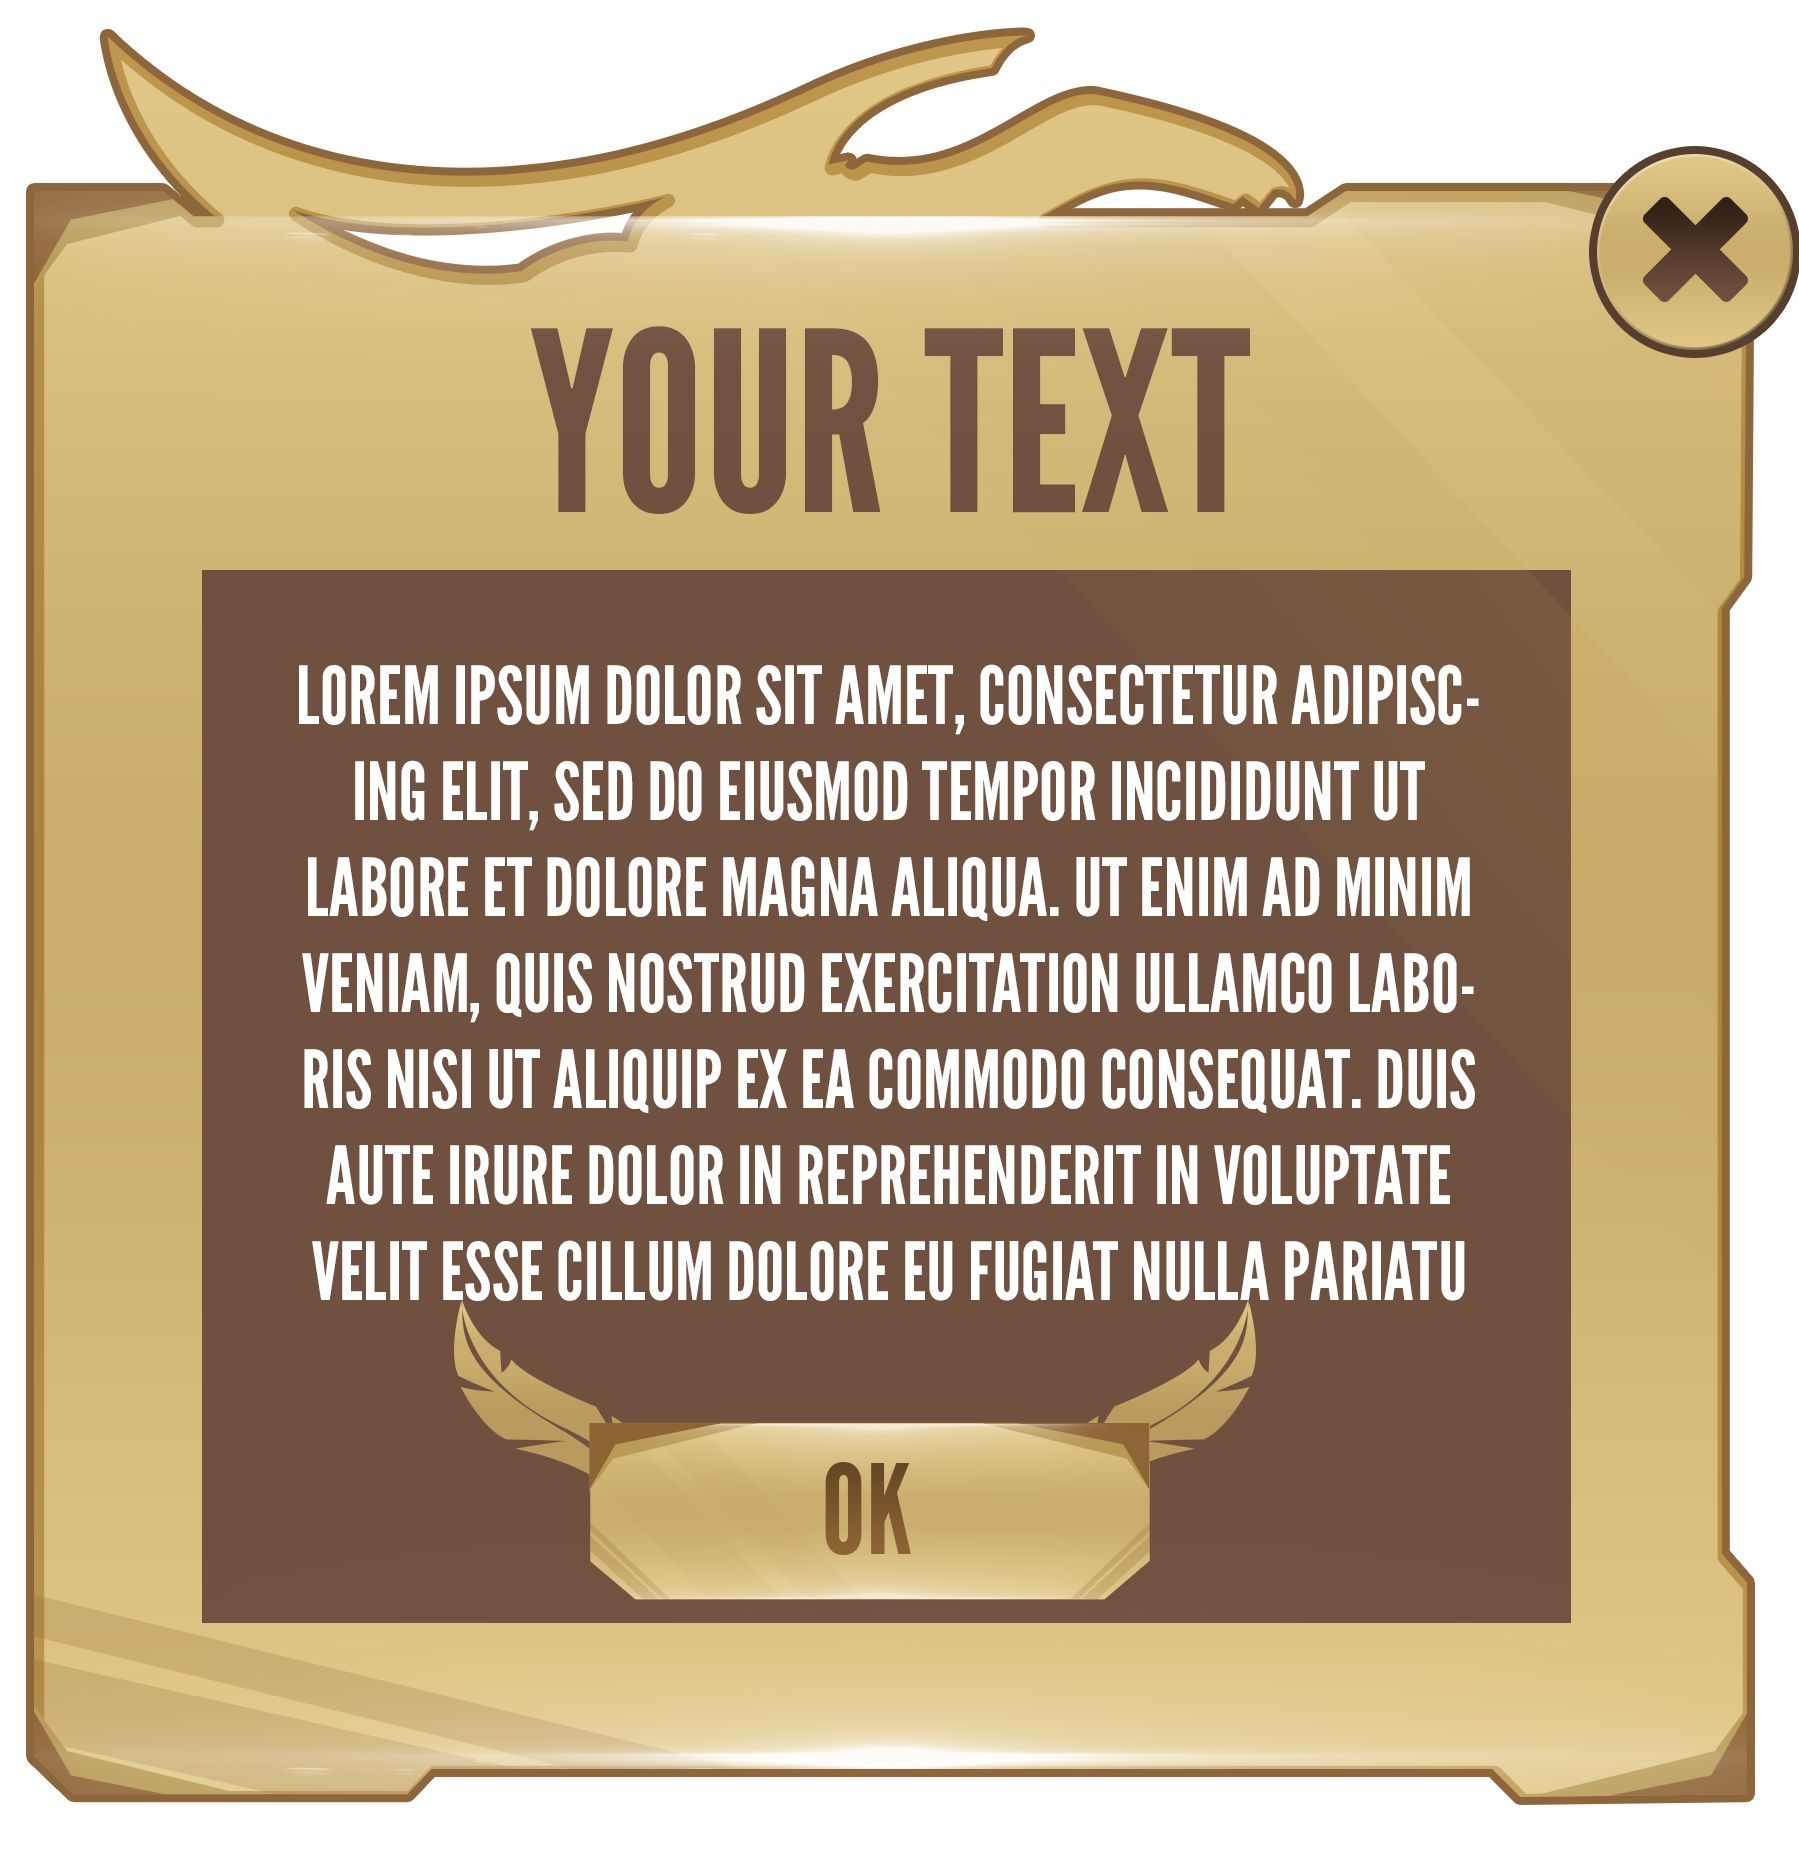
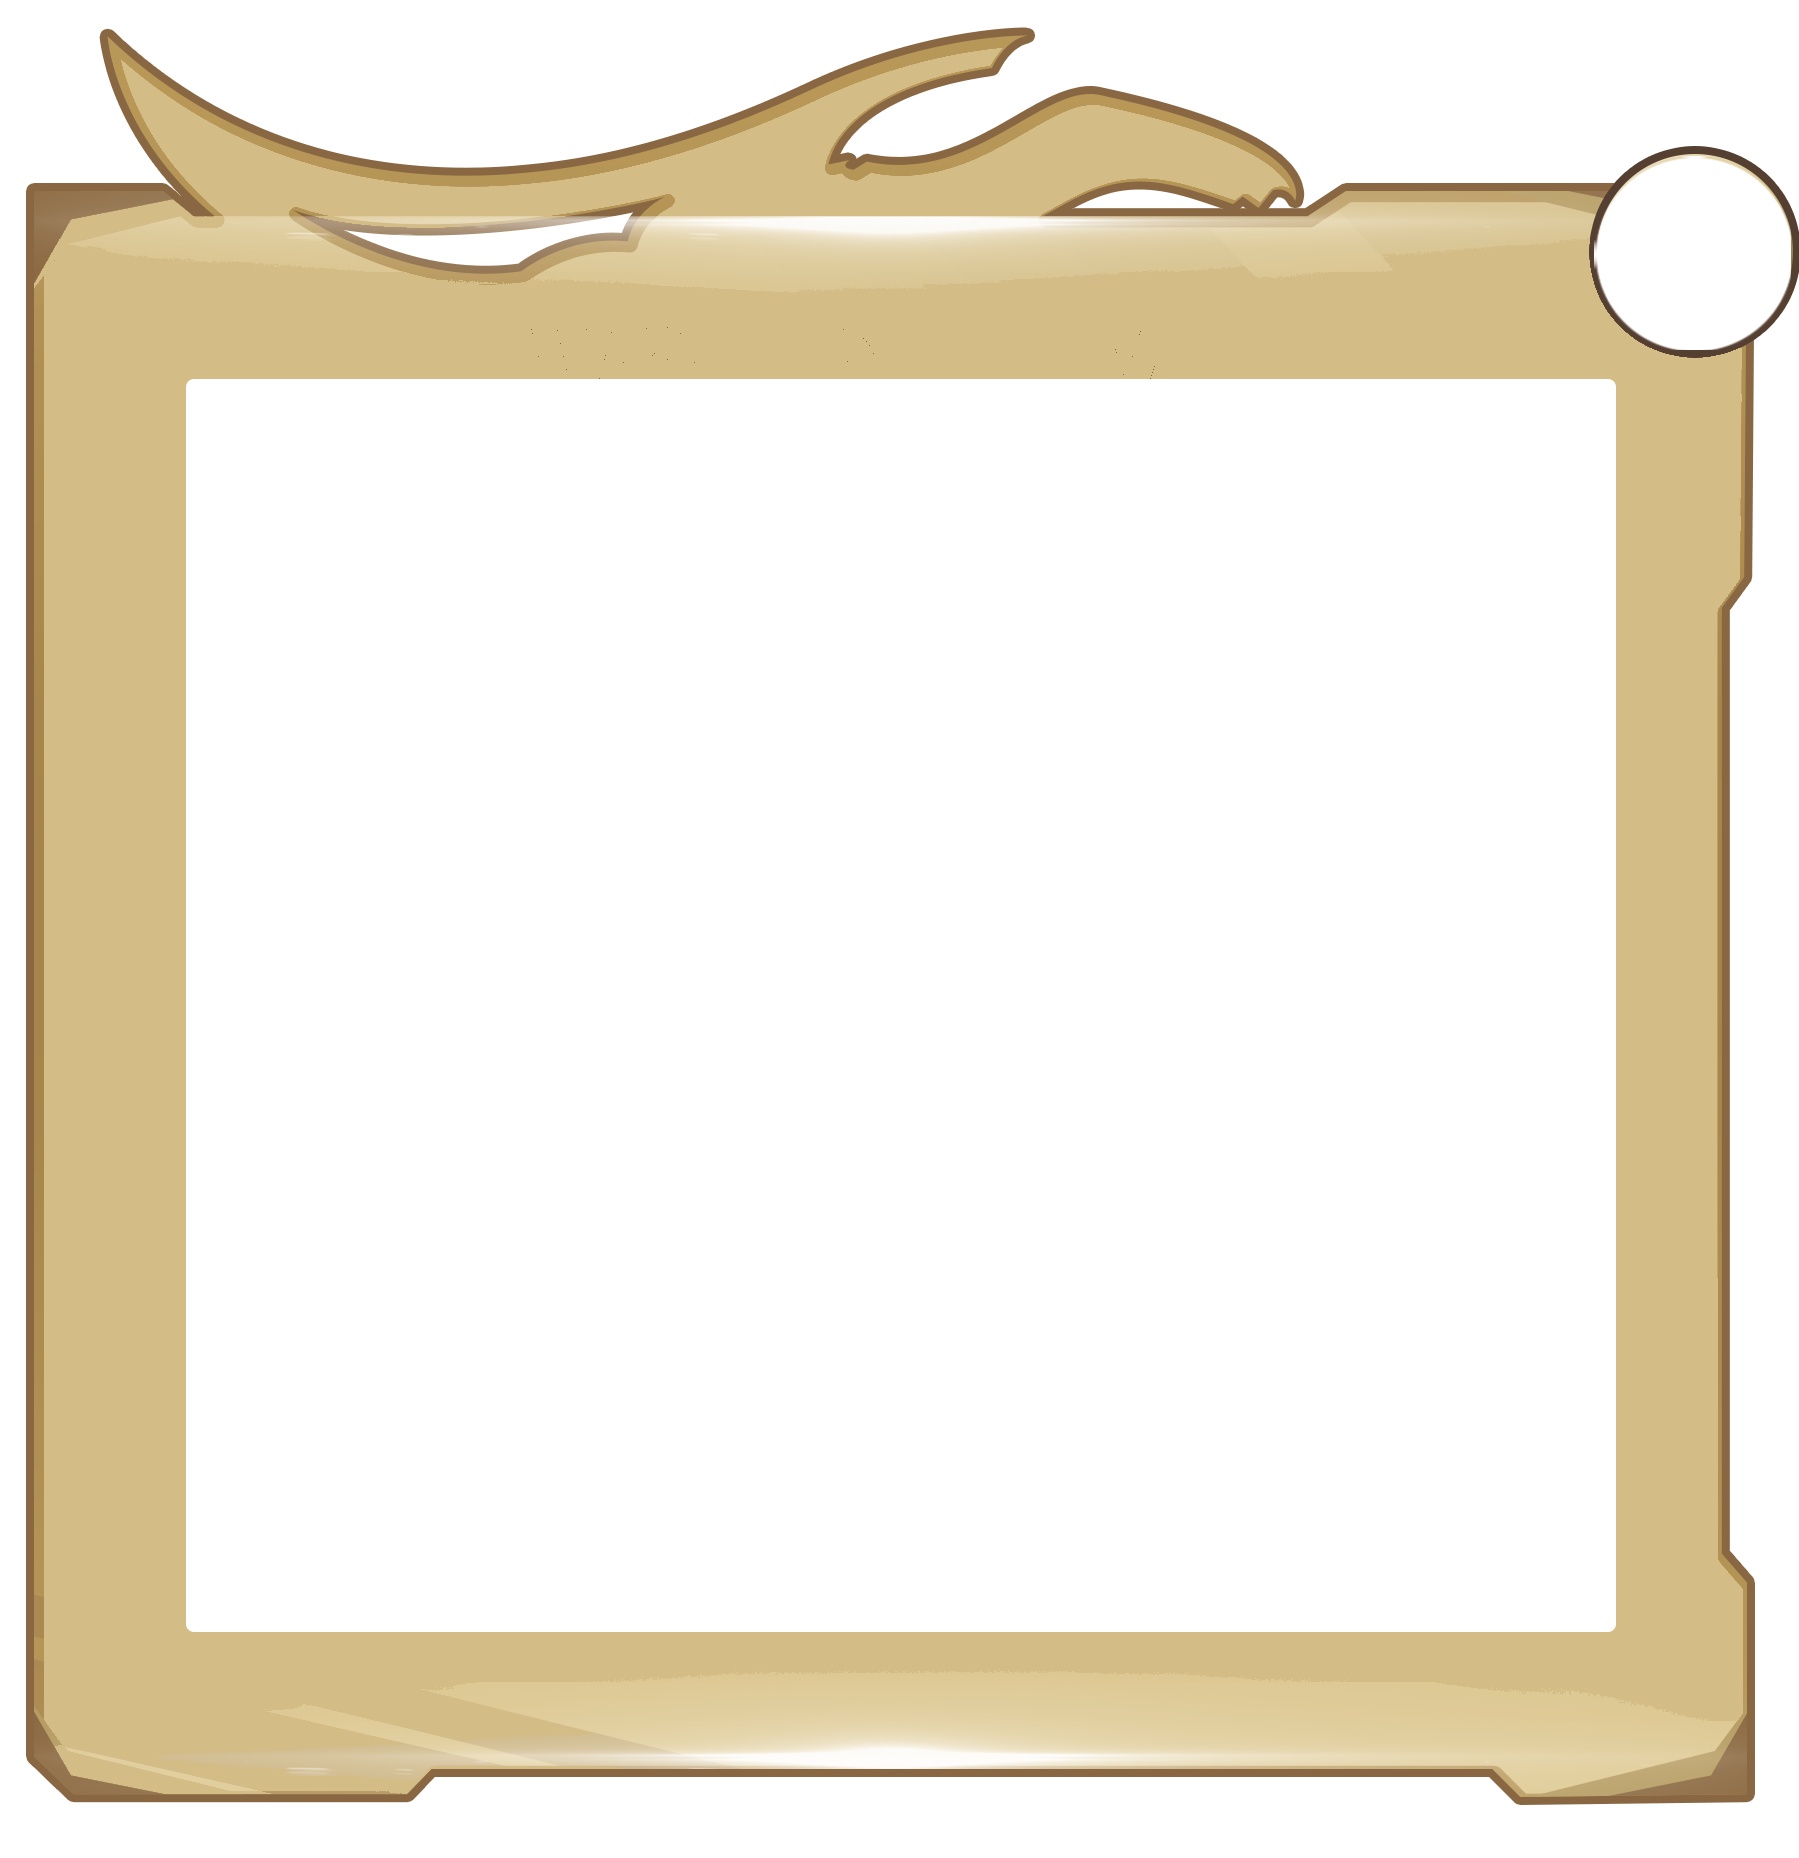
update

diff --git a/src/assets/styles/dashboardStyling.js b/src/assets/styles/dashboardStyling.js
@@ -1,10 +1,9 @@
 import styled from "styled-components";
-import textBox from "../images/textBox.png"
 
 export const Container = styled.div`
     align-content: center;
     padding: 20px;
-    background-image: url("../images/textBox.png");
+    /* background-image: url("https://github.com/cseu4-victor-bw1/team1_frontend/blob/home/src/assets/images/textBox.png?raw=true"); */
 `;
 
 export const Img = styled.img`

diff --git a/src/assets/styles/appStyling.js b/src/assets/styles/appStyling.js
@@ -17,4 +17,7 @@ export const MainContainer = styled.div`
 export const RoutersContainer = styled.div`
     grid-area: main;
     width: 60vw;
+    background-image: url("https://github.com/cseu4-victor-bw1/team1_frontend/blob/home/src/assets/images/textBox.png?raw=true");
+    background-size: cover;
+    background-repeat: no-repeat;
 `;
